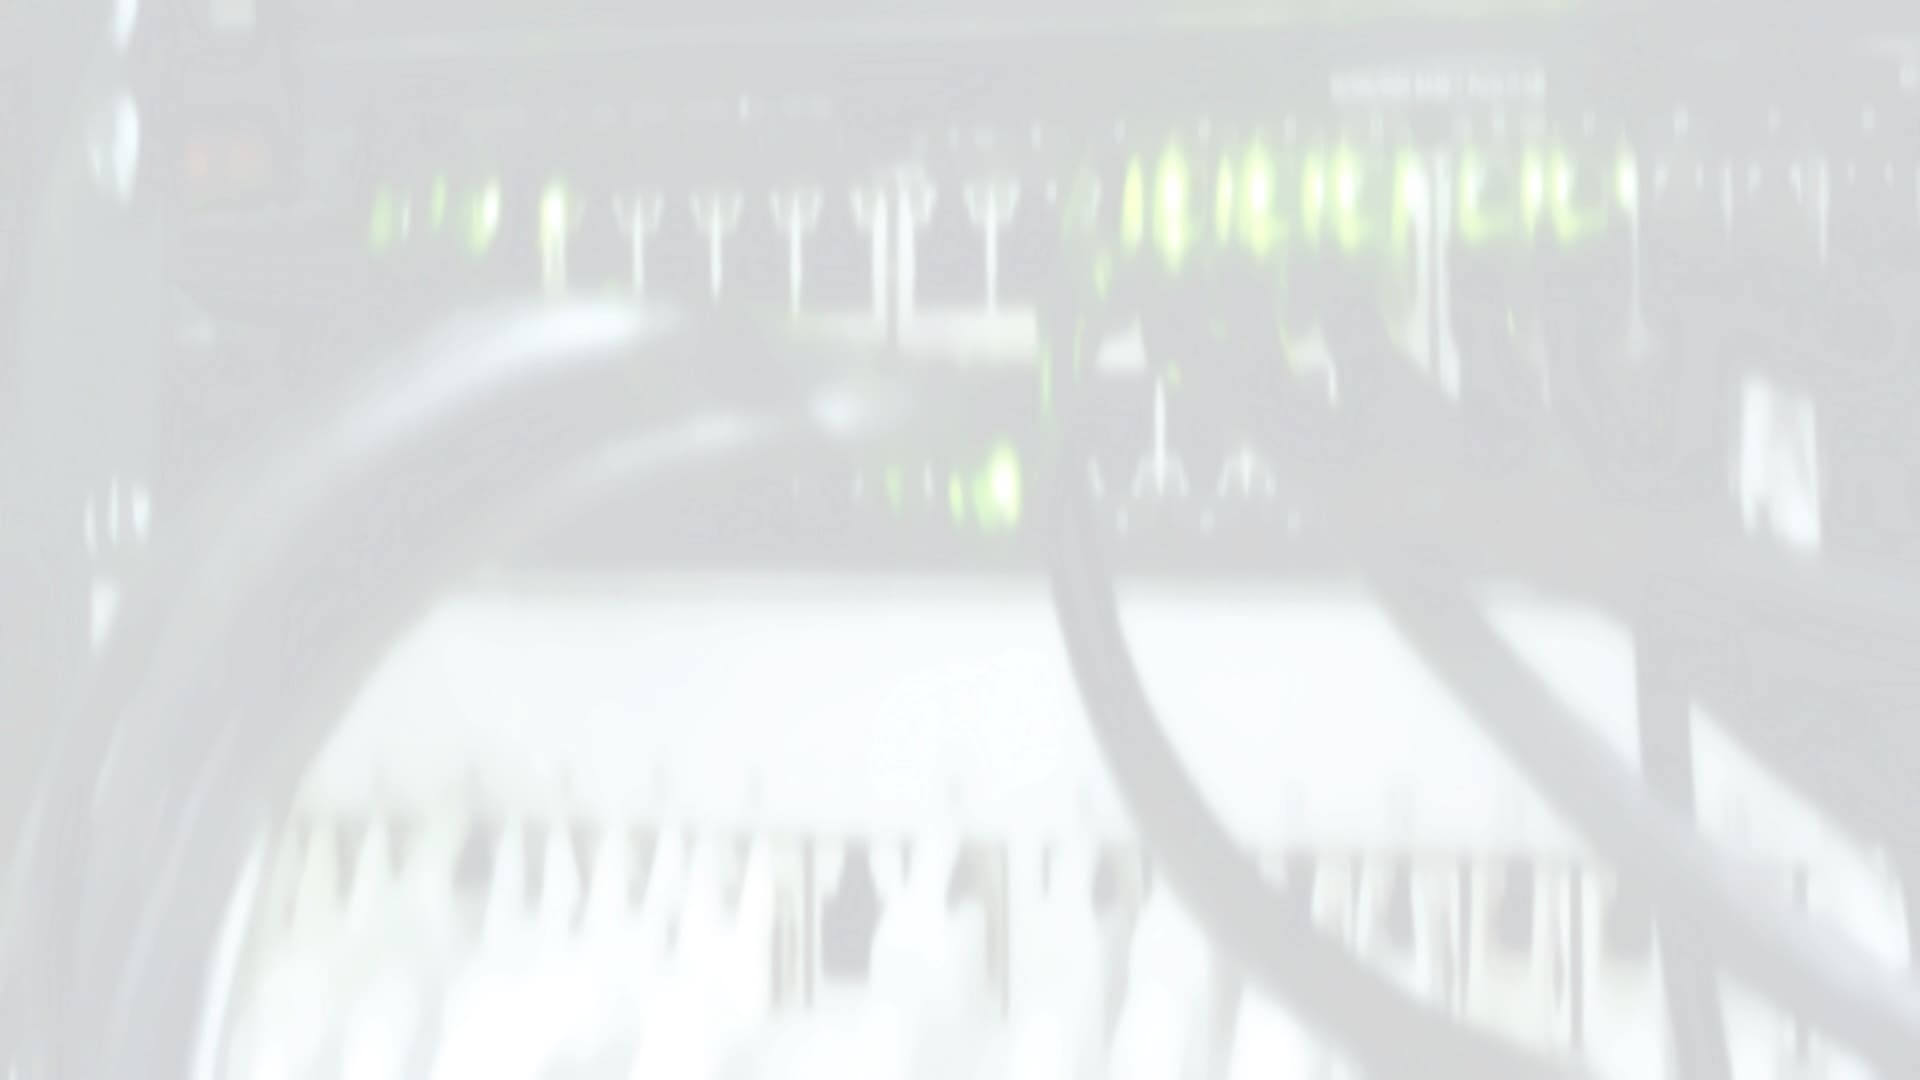
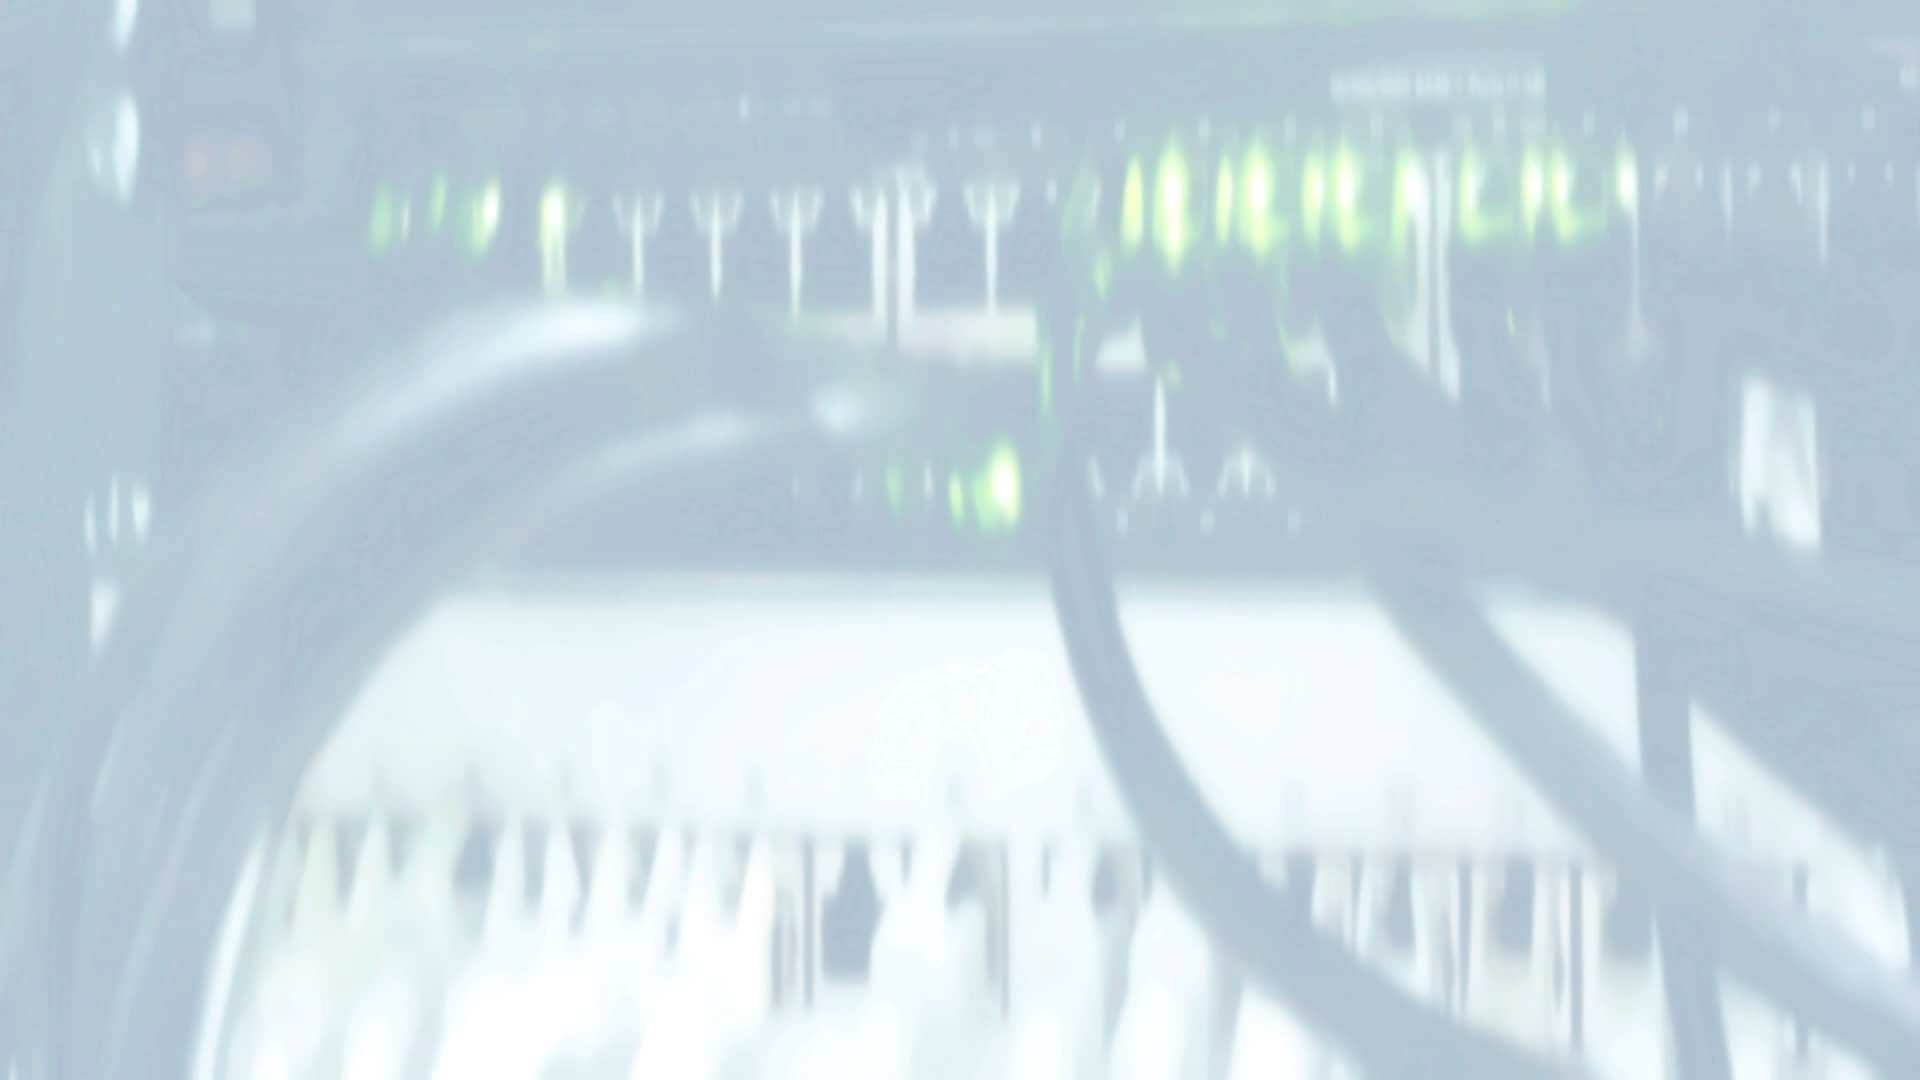
new AI layout, blue
new sql query showing all dns entries for windows pcs and servers

diff --git a/htdocs/openaudit/default.css b/htdocs/openaudit/default.css
@@ -1,4 +1,6 @@
-* {
+:root {--openauditcolor:#047;--openauditcolorlite4:#0474;--openauditcolorlite2:#0472;--openauditcolorlite1:#0471}
+
+* {
 border-radius:3px;
 font-family:Arial,sans-serif
 }
@@ -53,7 +55,7 @@ text-decoration:none
 
 input,select,textarea {
 background-color:#fff;
-border:1px solid #066;
+border:1px solid var(--openauditcolor);
 border-radius:2px;
 color:#000;
 font-size:14px;
@@ -67,15 +69,15 @@ height:auto
 }
 
 ::-webkit-file-upload-button {
-background:#066;
-border:1px solid #066;
+background:var(--openauditcolor);
+border:1px solid var(--openauditcolor);
 color:#fff;
 margin-top:-1px
 }
 
 button,submit,input.submit,input.file {
-background-color:#066;
-border:1px solid #066;
+background-color:var(--openauditcolor);
+border:1px solid var(--openauditcolor);
 border-radius:3px;
 color:#fff;
 cursor:pointer;
@@ -90,22 +92,22 @@ width:100%
 
 .button {
 background-color:#fff;
-border:1px solid #066;
-color:#066;
+border:1px solid var(--openauditcolor);
+color:var(--openauditcolor);
 cursor:pointer;
 padding:3px;
 text-transform:uppercase
 }
 
 .button:hover,.submit:hover {
-background:#066;
+background:var(--openauditcolor);
 box-shadow:inset 0 0 100px 100px rgba(255,255,255,0.2);
 color:#fff
 }
 
 input[type=button], input[type=submit], input[type=reset] {
 text-transform:uppercase;
-background-color: #066;
+background-color: var(--openauditcolor);
 vertical-align:middle;
 font-size:1.2em;
 height:32px;
@@ -117,7 +119,7 @@ cursor: pointer
 }
 
 .search_input {
-border:1px solid #066;
+border:1px solid var(--openauditcolor);
 height:21px;
 padding:2px;
 padding-left:3px;
@@ -148,7 +150,7 @@ vertical-align:top
 background-color:#fff;
 background-position:right;
 background-repeat:no-repeat;
-border:1px solid #066;
+border:1px solid var(--openauditcolor);
 border-radius:2px;
 height:16px;
 padding:0;
@@ -164,11 +166,11 @@ width:100%
 }
 
 .tftable tr:nth-child(odd) {
-background-color:#0662
+background-color:var(--openauditcolorlite2)
 }
 
 .tftable tr:nth-child(even) {
-background-color:#0661
+background-color:var(--openauditcolorlite1)
 }
 
 .headerbanner {
@@ -227,10 +229,10 @@ padding-right:5px
 
 a:link,a:visited {
 background-color:transparent;
-color:#066;
+color:var(--openauditcolor);
 font-weight:400;
 text-decoration:none;
-text-shadow:.5px 0 0 #066
+text-shadow:.5px 0 0 var(--openauditcolor)
 }
 
 a:active,a:hover {
@@ -314,7 +316,7 @@ background-color:#ddd;
 }
 
 ul#primary-nav li a:hover {
-color:#066
+color:var(--openauditcolor)
 }
 
 .menuparent img {
@@ -339,7 +341,7 @@ td.views_tablehead {
 font-weight:700;
 padding-right:10px;
 text-align:left;
-background-color:#0664;
+background-color:var(--openauditcolorlite4);
 }
 
 td.system_tablehead {
@@ -383,7 +385,7 @@ width:32px
 }
 
 div.npb_section_heading {
-background-color:#0662;
+background-color:var(--openauditcolor)2;
 border:none;
 font-weight:400;
 margin-top:8px;
@@ -400,7 +402,7 @@ color:#000
 }
 
 div.npb_section_heading a:hover {
-color:#066;
+color:var(--openauditcolor);
 text-decoration:none
 }
 
@@ -438,7 +440,7 @@ width:100%
 }
 
 tr.npb_highlight_row {
-background-color:#0666
+background-color:var(--openauditcolor)6
 }
 
 a.npb_ldap_logout {
@@ -452,7 +454,7 @@ background:url(images/Shading3.png) repeat-x top left
 }
 
 .ldap_details {
-border:1px solid #066a;
+border:1px solid var(--openauditcolor)a;
 margin:5px;
 padding:20px
 }

diff --git a/htdocs/openaudit/list_viewdef_systems_for_gateway.php b/htdocs/openaudit/list_viewdef_systems_for_gateway.php
@@ -1,10 +1,11 @@
 <?php
-    $query_array=array("headline"=>__("List Systems with Gateway"),
-                       "sql"=>"SELECT DISTINCT sys.system_uuid, sys.net_ip_address, sys.system_name, net.net_gateway, sys.net_domain,
+    if (!empty($_GET["headline_addition"])) $filtered = 'AND net.net_gateway = \'' . $_GET["headline_addition"].'\''; else $filtered='';
+	$query_array=array("headline"=>__("List Systems with Gateway"),
+                       "sql"=>"SELECT DISTINCT sys.system_uuid, sys.net_ip_address, sys.system_name, net.net_gateway, net.net_dns_server, net.net_dns_server_2, sys.net_domain,
                                       sys.system_os_name, sys.system_service_pack, sys.system_timestamp, sys.system_system_type, sys.system_description
                                FROM system sys, network_card net
                                WHERE net.net_uuid  = sys.system_uuid
-                               AND sys.system_timestamp  = net.net_timestamp AND net.net_gateway = '" . $_GET["headline_addition"] . "'
+                               AND sys.system_timestamp  = net.net_timestamp ".$filtered." 
                                AND (net.net_ip_address != 'none' OR net.net_ip_address_2 != 'none' OR net.net_ip_address_3 != 'none') ",
                        "sort"=>"sys.system_name",
                        "dir"=>"ASC",
@@ -30,6 +31,16 @@
                                                   ),
                                        "40"=>array("name"=>"net.net_gateway",
                                                    "head"=>__("Gateway"),
+                                                   "show"=>"y",
+                                                   "link"=>"n",
+                                                  ),
+                                       "41"=>array("name"=>"net.net_dns_server",
+                                                   "head"=>__("DNS1"),
+                                                   "show"=>"y",
+                                                   "link"=>"n",
+                                                  ),
+                                       "42"=>array("name"=>"net.net_dns_server_2",
+                                                   "head"=>__("DNS2"),
                                                    "show"=>"y",
                                                    "link"=>"n",
                                                   ),

diff --git a/htdocs/openaudit/include_menu_array.php b/htdocs/openaudit/include_menu_array.php
@@ -199,6 +199,7 @@ $menue_array = array(
                                     "75"=>array("name"=>"Memory Size", "link"=>"./list.php?view=statistic_memory", "image"=>"fa-stack-exchange", "title"=>"Memory Size",),
                                     "80"=>array("name"=>"Processor Types", "link"=>"./list.php?view=statistic_processor", "image"=>"fa-microchip", "title"=>"Processor Types",),
                                     "85"=>array("name"=>"Hard Drive", "link"=>"./list.php?view=statistic_harddrive", "image"=>"fa-navicon", "title"=>"Hard Drive",),
+                                    "87"=>array("name"=>"DNS and Gateways", "link"=>"./list.php?view=systems_for_gateway", "image"=>"fa-sitemap", "title"=>"DNS-Server und Gateways",),
                                     "90"=>array("name"=>"Keys", "link"=>"./list.php?view=statistic_keys", "image"=>"fa-key", "title"=>"Lizenzschlüssel",),
                                     "92"=>array("name"=>"Model", "link"=>"list.php?view=statistic_model", "image"=>"fa-laptop", "title"=>"Modelle",), 
                                     "94"=>array("name"=>"Manufacturer", "link"=>"list.php?view=statistic_manufacturer", "image"=>"fa-truck", "title"=>"Hersteller",), 
